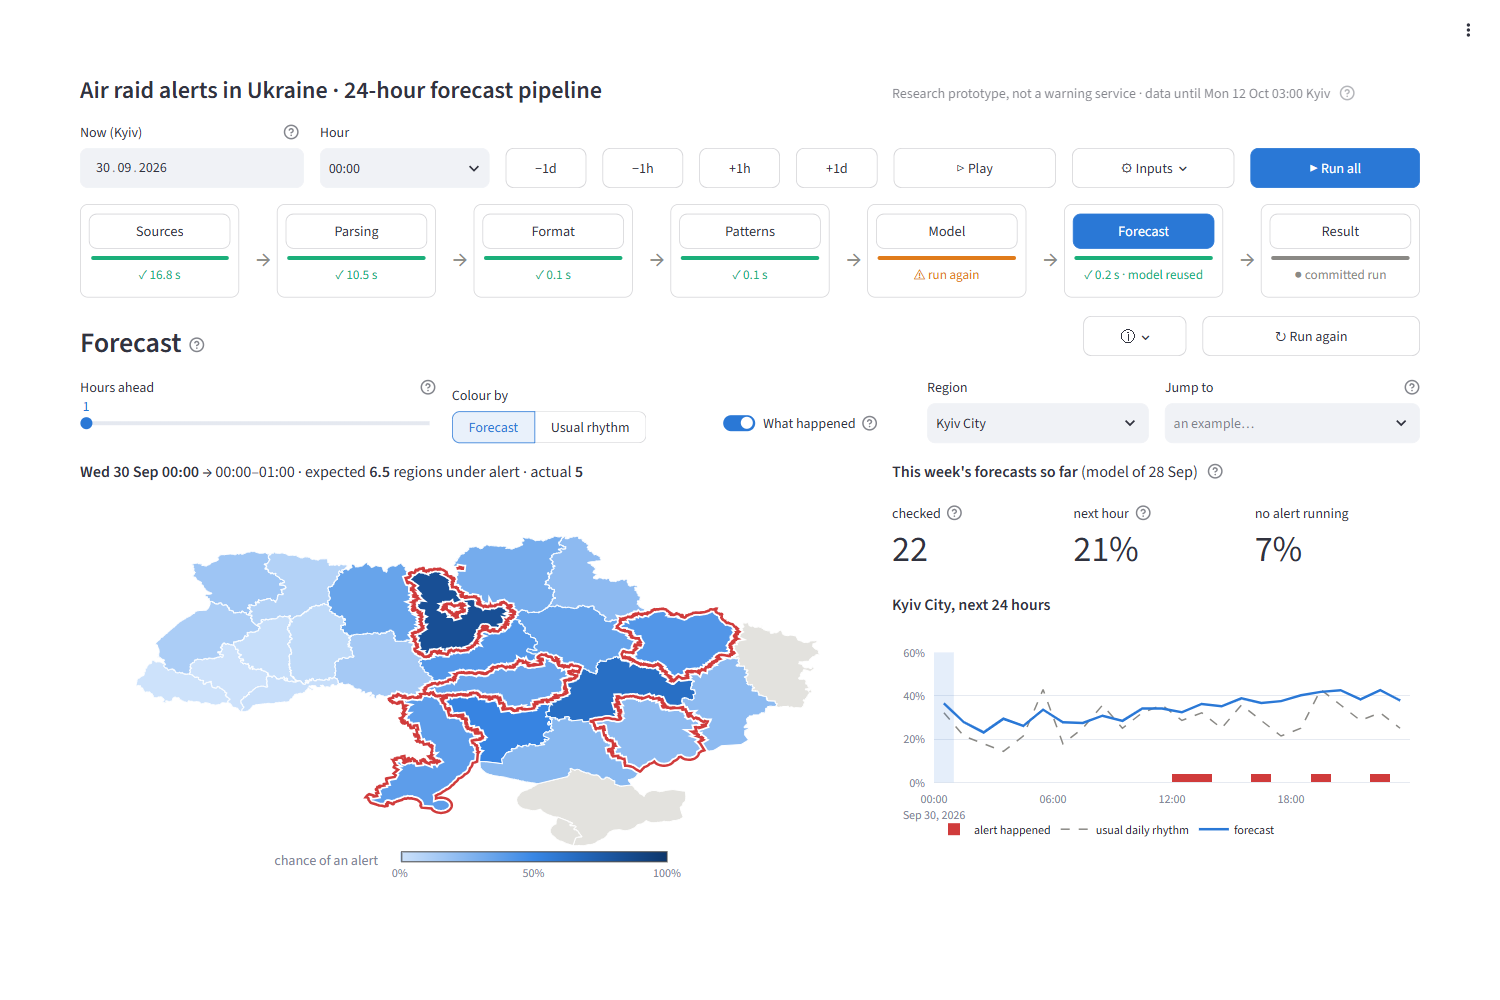
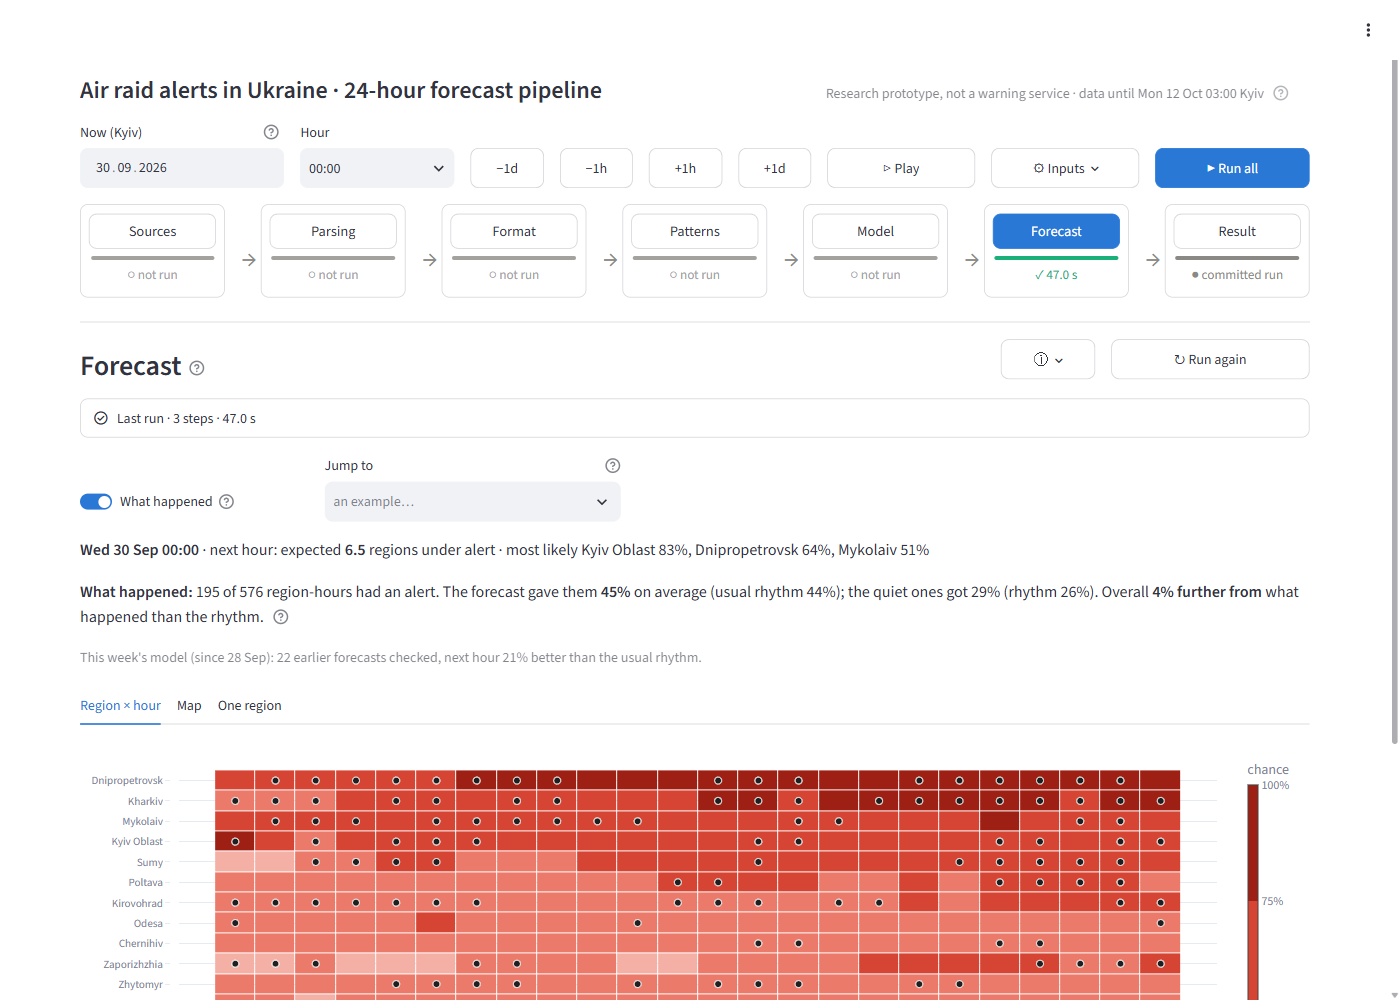
Rework the Forecast view; red probability bands; notes on parsed sources
- Forecast: a summary line, then every region x hour of the next 24 h as one
  grid; with hindsight, real alerts are marked and a plain score says what the
  forecast gave alert hours vs quiet hours, against the usual rhythm. The map
  and a single region move to tabs, with their controls inside them.
- Probabilities in five stepped red bands (easier to read than a continuous
  ramp); real alerts are marked in ink so they never clash with the scale.
- Legend clicks no longer hide series on the read-only charts.
- Parsing says why only the two Telegram channels are parsed.
- README: new forecast screenshot and caption; further next steps.

diff --git a/airraid/gui/views.py b/airraid/gui/views.py
@@ -93,6 +93,8 @@ ABOUT = {
 - **📡 Newest posts** reads both channels right now. They cannot enter a forecast until the alert history for
   the same hours is published.""",
     "parsing": """
+- Only the two Telegram channels are text. The alert history is already a table and goes straight to Format;
+  the official alert file (@air_alert_ua, stops 7 Sep) is only used to check how often the records agree.
 - Ordered keyword and emoji rules per channel decide the kind; the first match wins.
 - Place names are matched with Ukrainian case endings (Київщина, Київщини, Київщині…) plus frequent towns.
 - A post with no threat word that names a place within an hour of a threat post continues it ("На Боярку").
@@ -496,6 +498,7 @@ def v_parsing(run: bool) -> None:
         parse_live()
     elif not show_log("parsing"):
         hint("Run parses every downloaded post, in batches. Try the rules on one post below meanwhile.")
+    st.caption("Text sources only: the two Telegram channels. The alert history is already a table (see Format).")
     parsed = {ch: C.classified(ch) for ch in P.SIGNALS if C.classified(ch) is not None}
     t = C.now()
     if parsed and C.status("parsing") != "not run":
@@ -816,38 +819,72 @@ def compute_forecast(log: RunLog | None = None, say=None) -> None:
         C.record("forecast", time.time() - t0, out=out, note=note)
 
 
-def draw_forecast(map_slot, side_slot, h: int, rhythm: bool, hindsight: bool, region: int) -> None:
+def _actual(H: pd.DataFrame, starts, code: str) -> np.ndarray:
+    return np.array([H.at[x, code] if x < C.LAST else np.nan for x in starts], dtype=float)
+
+
+def draw_forecast(head, grid_slot, map_slot, one_slot, h: int, rhythm: bool, hindsight: bool, region: int) -> None:
     out, t, s = C.runs()["forecast"]["out"], C.now(), C.settings()
     fc, so_far = out["fc"], out["so_far"]
-    rows = fc[fc["h"] == h].sort_values("region")
-    codes = [CODES[i] for i in rows["region"]]
-    probs = rows["p_climatology" if rhythm else "p_main"].to_numpy()
-    target = t + pd.Timedelta(hours=h - 1)
     H = S.hourly(C.LAST, s.max_alert_hours)  # full history, used only for hindsight
-    actual = H.loc[target, codes].to_numpy() if hindsight and target < C.LAST else None
-    with map_slot.container():
-        st.markdown(f"**{C.kyiv(t)}** → {C.hour_span(target)} · expected **{probs.sum():.1f}** regions under alert"
-                    + (f" · actual **{int(np.nansum(actual))}**" if actual is not None else ""))
-        C.show(C.ukraine_map(codes, probs, actual, "usual daily rhythm" if rhythm else "chance of an alert", 420))
-    with side_slot.container():
-        st.markdown(f"**This week's forecasts so far** (model of {C.kyiv(out['week'], '%d %b')})",
-                    help="Forecasts made since the last retraining whose 24 hours have all passed by 'now'.")
+    starts = pd.DatetimeIndex([t + pd.Timedelta(hours=k - 1) for k in range(1, 25)])
+    p_main = fc.pivot(index="region", columns="h", values="p_main")
+    p_clim = fc.pivot(index="region", columns="h", values="p_climatology")
+    order = p_main.mean(axis=1).sort_values(ascending=False).index
+    act = np.array([_actual(H, starts, CODES[r]) for r in order]) if hindsight else None
+    with head.container():
+        p1 = p_main[1].sort_values(ascending=False)
+        st.markdown(f"**{C.kyiv(t)}** · next hour: expected **{p1.sum():.1f}** regions under alert · most likely "
+                    + ", ".join(f"{BY_CODE[CODES[r]].name} {v:.0%}" for r, v in p1.head(3).items()))
+        if act is not None:
+            known = ~np.isnan(act)
+            if known.any():
+                y, pf, pr = act[known], p_main.loc[order].to_numpy()[known], p_clim.loc[order].to_numpy()[known]
+                sk = C.skill(y, pf, pr)
+                st.markdown(f"**What happened:** {int(y.sum())} of {known.sum()} region-hours had an alert. The forecast "
+                            f"gave them **{pf[y == 1].mean():.0%}** on average (usual rhythm {pr[y == 1].mean():.0%}); "
+                            f"the quiet ones got {pf[y == 0].mean():.0%} (rhythm {pr[y == 0].mean():.0%}). Overall "
+                            f"**{abs(sk):.0%} {'closer to' if sk >= 0 else 'further from'}** what happened than "
+                            "the rhythm.",
+                            help="Closer = lower squared error between the chance and what happened (Brier skill score).")
+            else:
+                st.caption("What happened is not known yet for these hours: the data ends here.")
         if len(so_far):
             g1 = so_far[so_far["h"] == 1]
-            q1 = g1[g1["active_now"] == 0]
-            m = st.columns(3)
-            m[0].metric("checked", f"{so_far['t'].nunique()}", help="forecast moments with all 24 hours behind them")
-            m[1].metric("next hour", C.pct(C.skill(g1["y"], g1["p_main"], g1["p_climatology"]), 0),
-                        help="% better than the usual daily rhythm")
-            m[2].metric("no alert running", C.pct(C.skill(q1["y"], q1["p_main"], q1["p_climatology"]), 0))
-        else:
-            st.caption("None yet: the week has just started.")
+            st.caption(f"This week's model (since {C.kyiv(out['week'], '%d %b')}): {so_far['t'].nunique()} earlier "
+                       f"forecasts checked, next hour {C.pct(C.skill(g1['y'], g1['p_main'], g1['p_climatology']), 0)} "
+                       "better than the usual rhythm.")
+    with grid_slot.container():
+        names = [BY_CODE[CODES[r]].name for r in order]
+        x = C.local(starts)
+        fig = go.Figure(go.Heatmap(z=p_main.loc[order].to_numpy(), x=x, y=names, zmin=0, zmax=1, xgap=1, ygap=1,
+                                   colorscale=C.bands(), colorbar=dict(title="chance", **C.BAND_BAR),
+                                   hovertemplate="%{y}, %{x|%a %H:00}: %{z:.0%}<extra></extra>"))
+        if act is not None:
+            ii, jj = np.nonzero(act == 1)
+            fig.add_trace(go.Scatter(x=x[jj], y=[names[i] for i in ii], mode="markers", name="alert happened",
+                                     marker=dict(color=C.theme()["ink"], size=7, line=dict(color=C.theme()["surface"], width=1)),
+                                     hovertemplate="%{y}, %{x|%a %H:00}: alert happened<extra></extra>"))
+        fig.update_layout(height=560, yaxis=dict(autorange="reversed", tickfont=dict(size=11)),
+                          xaxis=dict(tickformat="%H:00", dtick=3 * 3_600_000), legend=dict(orientation="h", y=-0.08),
+                          margin=dict(l=10, r=10, t=10, b=30))
+        C.show(fig)
+    with map_slot.container():
+        rows = fc[fc["h"] == h].sort_values("region")
+        codes = [CODES[i] for i in rows["region"]]
+        probs = rows["p_climatology" if rhythm else "p_main"].to_numpy()
+        target = t + pd.Timedelta(hours=h - 1)
+        actual = H.loc[target, codes].to_numpy() if hindsight and target < C.LAST else None
+        st.markdown(f"{C.hour_span(target)} · expected **{probs.sum():.1f}** regions under alert"
+                    + (f" · actual **{int(np.nansum(actual))}**" if actual is not None else ""))
+        C.show(C.ukraine_map(codes, probs, actual, "usual daily rhythm" if rhythm else "chance of an alert", 420))
+        st.caption("Grey: not forecast (Luhansk, Crimea, Sevastopol: no usable alert data). Outlined: an alert "
+                   "happened (with 'What happened' on).")
+    with one_slot.container():
         one = fc[fc["region"] == region].sort_values("h")
-        starts = one["t"] + pd.to_timedelta(one["h"] - 1, unit="h")
-        act = np.array([H.at[x, CODES[region]] if x < C.LAST else np.nan for x in starts]) if hindsight else None
         st.markdown(f"**{BY_CODE[CODES[region]].name}, next 24 hours**")
-        C.show(C.hourly_chart(starts, one["p_main"].to_numpy(), one["p_climatology"].to_numpy(), act, mark=target,
-                              height=220))
+        C.show(C.hourly_chart(starts, one["p_main"].to_numpy(), one["p_climatology"].to_numpy(),
+                              _actual(H, starts, CODES[region]) if hindsight else None, height=260))
 
 
 def v_forecast(run: bool, play: bool = False) -> None:
@@ -858,25 +895,32 @@ def v_forecast(run: bool, play: bool = False) -> None:
     log = RunLog("forecast") if compute and not play else None
     if log is None:
         show_log("forecast")
-    names = [BY_CODE[c].name for c in CODES]
-    c = st.columns([2.2, 1.6, 1.2, 1.4, 1.6], vertical_alignment="bottom")
-    h = c[0].slider("Hours ahead", 1, 24, 1, help="1 = the hour right after the forecast is made.")
-    rhythm = c[1].segmented_control("Colour by", ["Forecast", "Usual rhythm"], default="Forecast",
-                                    required=True) == "Usual rhythm"
-    hindsight = c[2].toggle("What happened", help="Hindsight: outcomes after 'now', never seen by the model.")
-    region = names.index(c[3].selectbox("Region", names, index=CODES.index("UA-30"), key="fc_region"))
-    c[4].selectbox("Jump to", list(PRESET_RULES), index=None, key="jump", on_change=_jump, placeholder="an example…",
+    c = st.columns([1.4, 1.8, 4], vertical_alignment="bottom")
+    hindsight = c[0].toggle("What happened", help="Hindsight: outcomes after 'now', never seen by the model.")
+    c[1].selectbox("Jump to", list(PRESET_RULES), index=None, key="jump", on_change=_jump, placeholder="an example…",
                    help="; ".join(f"{k}: {v}" for k, v in PRESET_RULES.items()) + " (test weeks).")
     say = st.empty()
-    left, right = st.columns([3, 2])
-    map_slot, side_slot = left.empty(), right.empty()
     if compute:
         compute_forecast(log, say.caption)
         say.empty()
     if C.status("forecast") == "not run":
         hint(f"Run trains the model for the week of {C.kyiv(week, '%d %b')} and forecasts the next 24 hours.")
         return
-    draw_forecast(map_slot, side_slot, h, rhythm, hindsight, region)
+    head = st.empty()
+    names = [BY_CODE[c].name for c in CODES]
+    tabs = st.tabs(["Region × hour", "Map", "One region"])
+    with tabs[0]:
+        grid_slot = st.empty()
+    with tabs[1]:
+        a, b = st.columns([3, 2], vertical_alignment="bottom")
+        h = a.slider("Hours ahead", 1, 24, 1, help="1 = the hour right after the forecast is made.")
+        rhythm = b.segmented_control("Colour by", ["Forecast", "Usual rhythm"], default="Forecast",
+                                     required=True) == "Usual rhythm"
+        map_slot = st.empty()
+    with tabs[2]:
+        region = names.index(st.selectbox("Region", names, index=CODES.index("UA-30"), key="fc_region"))
+        one_slot = st.empty()
+    draw_forecast(head, grid_slot, map_slot, one_slot, h, rhythm, hindsight, region)
     if play:
         for _ in range(24):
             if C.now() >= C.LAST:
@@ -885,7 +929,7 @@ def v_forecast(run: bool, play: bool = False) -> None:
             running("forecast", C.kyiv(C.now(), "%d %b %H:%M"))
             compute_forecast(say=say.caption)
             say.empty()
-            draw_forecast(map_slot, side_slot, h, rhythm, hindsight, region)
+            draw_forecast(head, grid_slot, map_slot, one_slot, h, rhythm, hindsight, region)
             time.sleep(0.3)
 
 

diff --git a/airraid/gui/common.py b/airraid/gui/common.py
@@ -33,8 +33,10 @@ BLUE, AQUA, GREY, ALERT_RED, AMBER = "#2a78d6", "#1baf7a", "#8a8985", "#d03b3b",
 KIND_COLORS = {"drone": BLUE, "missile": "#7a52c7", "aviation": AMBER, "explosion": "#d4498f", "clear": AQUA}
 THEMES = {  # probability ramp runs from the page surface towards high contrast in both themes
     "light": dict(ramp=["#cde2fb", "#9ec5f4", "#6da7ec", "#3987e5", "#256abf", "#184f95", "#0d366b"],
+                  prob=["#fbe3df", "#f5b0a6", "#ec7a6b", "#d64434", "#9e1f14"], ink="#1f1f1f",
                   surface="#ffffff", excluded="#e3e2de"),
     "dark": dict(ramp=["#1b2a40", "#1c3f6e", "#1c5cab", "#2a78d6", "#5598e7", "#9ec5f4", "#cde2fb"],
+                 prob=["#33201f", "#6b2723", "#a8322a", "#e0533f", "#ffab9c"], ink="#ffffff",
                  surface="#0e1117", excluded="#2a2b31"),
 }
 
@@ -224,6 +226,18 @@ def theme() -> dict:
     return THEMES["dark" if t is not None and t.type == "dark" else "light"]
 
 
+BANDS = [0, 0.1, 0.25, 0.5, 0.75, 1.0]
+
+
+def bands() -> list:
+    """Probability in five stepped bands: easier to read than a continuous ramp."""
+    r = theme()["prob"]  # reds read as risk; real alerts are then marked in ink, not red
+    return [x for i, c in enumerate(r) for x in ([BANDS[i], c], [BANDS[i + 1], c])]
+
+
+BAND_BAR = dict(tickvals=BANDS, ticktext=[f"{b:.0%}" for b in BANDS], thickness=10)
+
+
 def ramp() -> list:
     r = theme()["ramp"]
     return [[i / (len(r) - 1), c] for i, c in enumerate(r)]
@@ -235,7 +249,8 @@ _KEYS = {"n": 0}
 def show(fig, height=None):
     """Plotly chart without toolbar; a fresh key each call so live updates can redraw the same slot."""
     _KEYS["n"] += 1
-    fig.update_layout(paper_bgcolor="rgba(0,0,0,0)", plot_bgcolor="rgba(0,0,0,0)", dragmode=False)
+    fig.update_layout(paper_bgcolor="rgba(0,0,0,0)", plot_bgcolor="rgba(0,0,0,0)", dragmode=False,
+                      legend=dict(itemclick=False, itemdoubleclick=False))
     fig.update_xaxes(fixedrange=True)
     fig.update_yaxes(fixedrange=True)
     if height:
@@ -292,13 +307,13 @@ def ukraine_map(codes, probs, actual, value_label, height=440):
     outcome = [""] * len(codes) if actual is None else [" · alert happened" if a else " · no alert" for a in actual]
     fig.add_trace(go.Choropleth(
         geojson=geo(), featureidkey="properties.shapeISO", locations=codes, z=probs, zmin=0, zmax=1,
-        colorscale=ramp(), marker_line_color=th["surface"], marker_line_width=1,
+        colorscale=bands(), marker_line_color=th["surface"], marker_line_width=1,
         customdata=np.array([names, outcome]).T,
-        colorbar=dict(title=value_label, tickformat=".0%", orientation="h", x=0.5, y=-0.02, len=0.5, thickness=10),
+        colorbar=dict(title=value_label, orientation="h", x=0.5, y=-0.02, len=0.5, **BAND_BAR),
         hovertemplate="%{customdata[0]}: %{z:.0%}%{customdata[1]}<extra></extra>"))
     if actual is not None and np.nansum(actual) > 0:
         hit = [c for c, a in zip(codes, actual) if a == 1]
-        for color, width in ((th["surface"], 6), (ALERT_RED, 2.5)):  # surface halo keeps shared borders readable
+        for color, width in ((th["surface"], 6), (th["ink"], 2.5)):  # surface halo keeps shared borders readable
             fig.add_trace(go.Choropleth(
                 geojson=geo(), featureidkey="properties.shapeISO", locations=hit, z=[1] * len(hit),
                 colorscale=[[0, "rgba(0,0,0,0)"], [1, "rgba(0,0,0,0)"]], showscale=False,

diff --git a/README.md b/README.md
@@ -18,9 +18,9 @@ blue and its view fills live; a stage whose inputs changed turns orange.*
 
 ![Forecast at a replay moment](docs/screenshots/02_forecast.png)
 
-*Forecast at 30 Sep 00:00 (an example "missed forecast" from the test weeks), with the outcome in
-hindsight (red outlines) and the week's forecasts checked so far. The clock moved, so Model asks to
-run again; the forecast reused that week's model.*
+*Forecast at 30 Sep 00:00 (an example "missed forecast" from the test weeks): all 24 regions × 24 hours
+at once, darker red = more likely, dots = an alert really happened (hindsight), and a plain-language
+score against the usual daily rhythm. The map and a single region are in the other tabs.*
 
 ## Results (test period, 14 Sep – 12 Oct 2026, 380k forecasts)
 
@@ -85,7 +85,7 @@ tabs and folded sections.
 | Format | all sources for one region on one time axis; the hourly table the model gets | each source checked against the common format |
 | Patterns | one finding per tab: trend since 2022, persistence, hour of day by region, co-occurrence, durations | |
 | Model | weekly walk-forward on the weeks before "now", scored; match with the committed run | each week's bar turns amber (training), then blue with its score |
-| Forecast | map, 24 hours for a region, this week's forecasts checked so far; jump to examples | ▷ Play steps the clock an hour at a time |
+| Forecast | the next 24 h for every region as a grid; with hindsight, real alerts marked and a plain score; map and one region in tabs; jump to examples | ▷ Play steps the clock an hour at a time |
 | Result | findings with 95 % ranges, what Telegram adds, warnings vs false alarms, regions | |
 
 **Run** runs one stage; **▶ Run all** runs them in order (about 2–3 minutes the first time, most of it
@@ -101,6 +101,11 @@ now, and the alert dataset is published once a day (about 05:00 UTC), ending at 
 official alert channel's public page stopped on 7 Sep 2026. eTryvoga's own channel
 (@UkraineAlarmSignal) posts alerts live, per district; turning it into the same oblast-level alerts and
 checking it against the dataset on past days would close the gap. That is the next step, not done.
+
+**Other next steps, not done.** More text sources through the same adapter interface, compared in the
+same walk-forward: the Air Force's morning summaries (drones and missiles launched overnight, a daily
+intensity signal for the 4–24 h range where the model only matches the usual rhythm), news and official
+statements, and the route maps posted as images. A per-oblast filter for the Patterns stage.
 
 | | |
 |---|---|
